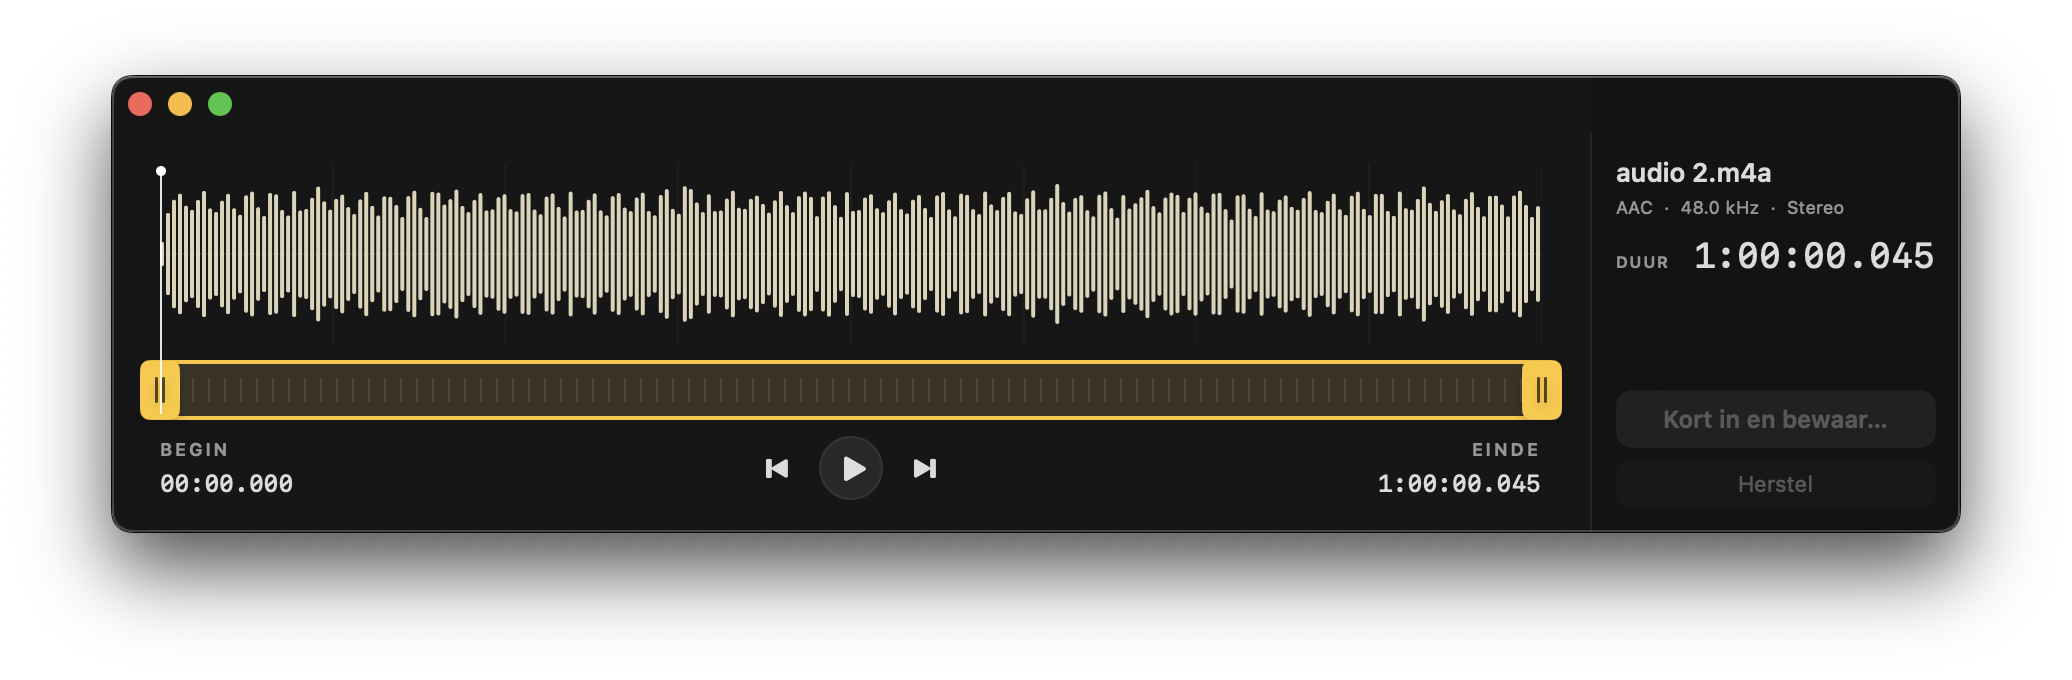
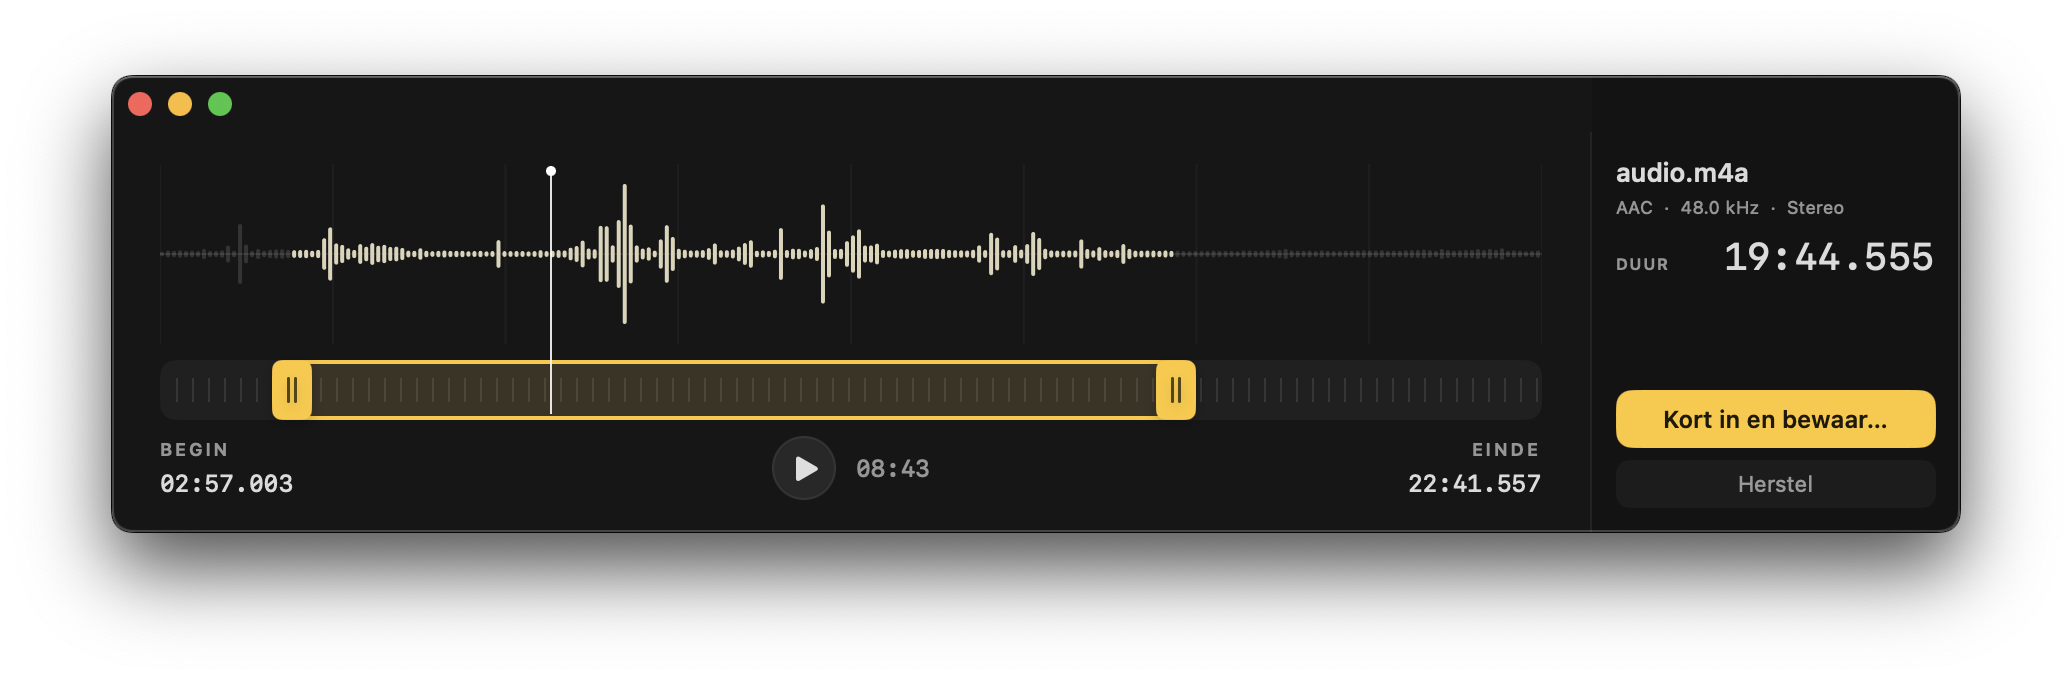
fix: open Finder audio files directly
Queue macOS file-open events until the editor is ready, so Open With loads the selected audio file on cold and warm starts. Remove the previous and next transport buttons, show the current playhead time beside play/pause, add regression coverage, and update the waveform editor screenshot.

diff --git a/Sources/Trimmer/ContentView.swift b/Sources/Trimmer/ContentView.swift
@@ -65,10 +65,7 @@ struct ContentView: View {
         HStack(alignment: .center) {
             timeBlock("BEGIN", value: model.start, action: { model.pause(); model.seek(model.start) })
             Spacer(minLength: 12)
-            HStack(spacing: 14) {
-                Button { model.pause(); model.seek(model.start) } label: {
-                    Image(systemName: "backward.end.fill").font(.system(size: 12))
-                }.help("Naar het begin van de selectie")
+            HStack(spacing: 10) {
                 Button { model.togglePlayback() } label: {
                     Image(systemName: model.isPlaying ? "pause.fill" : "play.fill")
                         .font(.system(size: 14, weight: .semibold))
@@ -80,9 +77,11 @@ struct ContentView: View {
                 .keyboardShortcut(.space, modifiers: [])
                 .help("Afspelen of pauzeren (spatiebalk)")
                 .accessibilityLabel(model.isPlaying ? "Pauzeren" : "Afspelen")
-                Button { model.previewEnd() } label: {
-                    Image(systemName: "forward.end.fill").font(.system(size: 12))
-                }.help("Laatste drie seconden beluisteren")
+                Text(timeLabel(model.position, precise: false))
+                    .font(.system(size: 12, weight: .medium, design: .monospaced))
+                    .foregroundStyle(.secondary)
+                    .fixedSize()
+                    .accessibilityLabel("Huidige tijd: " + timeLabel(model.position, precise: false))
             }
             .buttonStyle(.plain).disabled(!model.canPlay)
             Spacer(minLength: 12)

diff --git a/Tests/TrimmerTests/AppDelegateOpenTests.swift b/Tests/TrimmerTests/AppDelegateOpenTests.swift
@@ -1,0 +1,44 @@
+import AppKit
+import XCTest
+@testable import Trimmer
+
+@MainActor
+final class AppDelegateOpenTests: XCTestCase {
+    func testOpenBeforeHandlerIsDeliveredOnceWhenHandlerAttaches() {
+        let delegate = AppDelegate()
+        let url = URL(fileURLWithPath: "/tmp/cold-start.wav")
+        var received: [URL] = []
+
+        delegate.application(NSApplication.shared, open: [url])
+        XCTAssertTrue(received.isEmpty)
+
+        delegate.fileOpenHandler = { received.append($0) }
+        XCTAssertEqual(received, [url])
+
+        delegate.fileOpenHandler = { received.append($0) }
+        XCTAssertEqual(received, [url])
+    }
+
+    func testOpenWithAttachedHandlerIsDeliveredImmediately() {
+        let delegate = AppDelegate()
+        let url = URL(fileURLWithPath: "/tmp/running-app.wav")
+        var received: [URL] = []
+        delegate.fileOpenHandler = { received.append($0) }
+
+        delegate.application(NSApplication.shared, open: [url])
+
+        XCTAssertEqual(received, [url])
+    }
+
+    func testOnlyFirstURLFromOneOpenRequestIsDelivered() {
+        let delegate = AppDelegate()
+        let first = URL(fileURLWithPath: "/tmp/first.wav")
+        let second = URL(fileURLWithPath: "/tmp/second.wav")
+        var received: [URL] = []
+        delegate.fileOpenHandler = { received.append($0) }
+
+        delegate.application(NSApplication.shared, open: [first, second])
+
+        XCTAssertEqual(received, [first])
+    }
+}

diff --git a/Sources/Trimmer/TrimmerApp.swift b/Sources/Trimmer/TrimmerApp.swift
@@ -10,11 +10,11 @@ struct TrimmerApp: App {
             ContentView(model: model, dependencies: model.dependencies)
                 .onAppear {
                     delegate.model = model
+                    delegate.fileOpenHandler = { [weak model] url in model?.open(url) }
                     #if DEBUG
                     delegate.runPreviewIfRequested()
                     #endif
                 }
-                .onOpenURL { model.open($0) }
         }
         .defaultSize(width: 900, height: 200)
         .windowResizability(.contentSize)
@@ -43,6 +43,24 @@ struct TrimmerApp: App {
 @MainActor
 final class AppDelegate: NSObject, NSApplicationDelegate {
     weak var model: EditorModel?
+    var fileOpenHandler: ((URL) -> Void)? {
+        didSet {
+            guard let fileOpenHandler, let pendingOpenURL else { return }
+            self.pendingOpenURL = nil
+            fileOpenHandler(pendingOpenURL)
+        }
+    }
+    private var pendingOpenURL: URL?
+
+    func application(_ application: NSApplication, open urls: [URL]) {
+        guard let url = urls.first else { return }
+        if let fileOpenHandler {
+            fileOpenHandler(url)
+        } else {
+            pendingOpenURL = url
+        }
+    }
+
     #if DEBUG
     private var previewStarted = false
     /// Deterministic rendering of the actual native window for local visual verification.

diff --git a/Sources/Trimmer/EditorModel.swift b/Sources/Trimmer/EditorModel.swift
@@ -178,8 +178,6 @@ final class EditorModel: ObservableObject {
         hasPositionedPlayhead = false; isTrimming = false
     }
 
-    func previewEnd() { pause(); seek(max(start, end - 3)); togglePlayback() }
-
     private func tick() {
         guard isPlaying, let player else { return }
         position = player.currentTime
